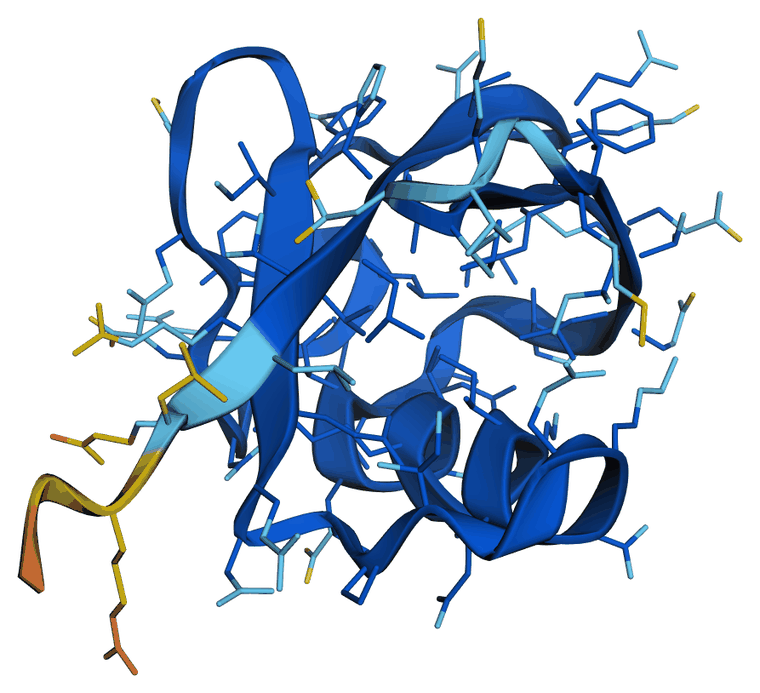
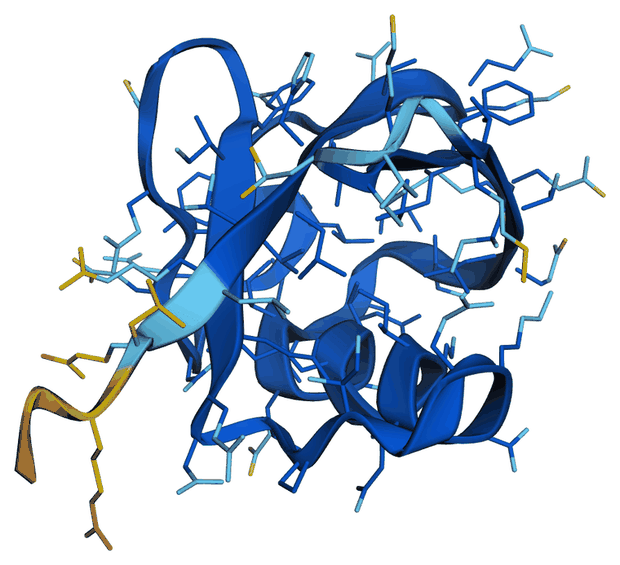
docs: shrink the figures
Both were larger than they needed to be on the page and on disk. Display
widths 520/420 -> 380/320, assets downscaled and requantised: 168 KB ->
120 KB total.

diff --git a/README.md b/README.md
@@ -97,7 +97,7 @@ for f in sorted(glob.glob('quickstart_inference/ubiquitin/seed_42/*_aggregated.j
 colour the structure by confidence:
 
 <p align="center">
-  <img src="assets/ubiquitin_cartoon.png" alt="Ubiquitin cartoon with side chains, coloured by pLDDT" width="520">
+  <img src="assets/ubiquitin_cartoon.png" alt="Ubiquitin cartoon with side chains, coloured by pLDDT" width="380">
 </p>
 
 Coloured by [AlphaFold's four confidence bands](https://www.ebi.ac.uk/training/online/courses/alphafold/inputs-and-outputs/evaluating-alphafolds-predicted-structures-using-confidence-scores/plddt-understanding-local-confidence/):
@@ -162,7 +162,7 @@ view.zoomTo(); view.show()
 than merely admired:
 
 <p align="center">
-  <img src="assets/ubiquitin_vs_1ubq.png" alt="Prediction superposed on the 1UBQ crystal structure" width="420">
+  <img src="assets/ubiquitin_vs_1ubq.png" alt="Prediction superposed on the 1UBQ crystal structure" width="320">
 </p>
 
 Prediction in navy, crystal structure in grey.
